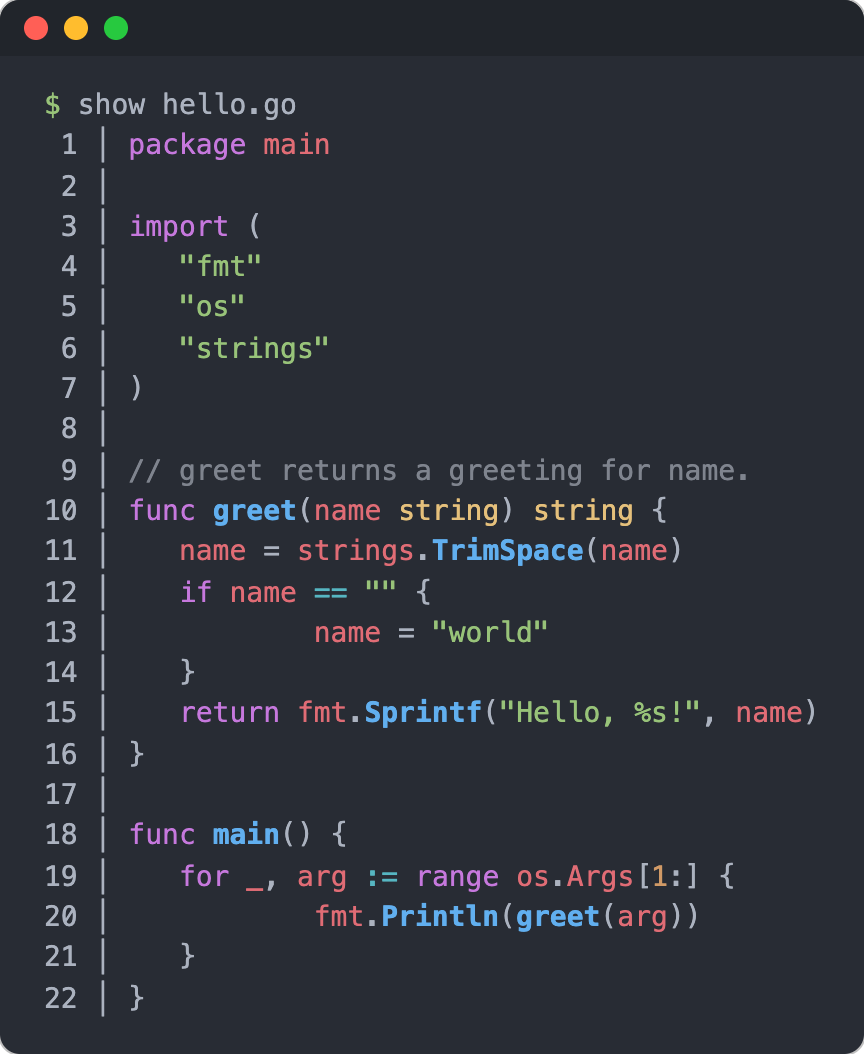
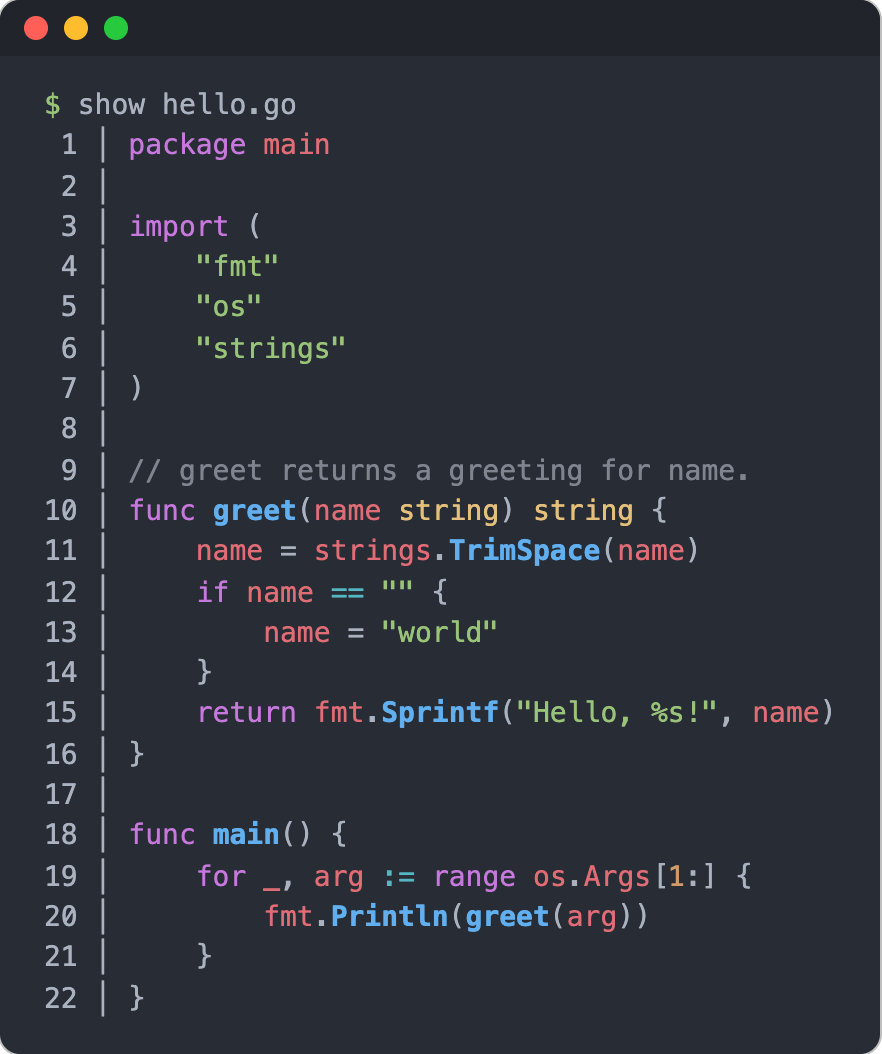
Document --color and --tab-width and refresh the screenshot
The screenshot is regenerated from real output, now with expanded tabs.

diff --git a/README.md b/README.md
@@ -48,22 +48,25 @@ make build        # writes bin/show
 ## Usage
 
 ```sh
-show main.go                      # highlight by file name
-show -t yaml config.example       # force a file type when the name does not tell
-show --theme github-dark main.go  # pick another theme
-show main.go | less -R            # page through a long file
-show --list-themes                # see the available themes
+show main.go                           # highlight by file name
+show -t yaml config.example            # force a file type when the name does not tell
+show --theme github-dark main.go       # pick another theme
+show --color always main.go | less -R  # keep color when paging
+show --list-themes                     # see the available themes
 ```
 
-The file type is detected from the file name, then from the contents. Output
-always contains ANSI color codes, also when piped, so use `less -R` to page.
+The file type is detected from the file name, then from the contents. Color
+is on when the output is a terminal. When you pipe or redirect the output, it
+is plain text with line numbers, unless you pass `--color always`.
 
 ## Options
 
 | Flag | Description |
 | --- | --- |
 | `-t`, `--filetype <type>` | Force the file type, for example `go`, `python`, `yaml`. See `--list-file-types`. |
+| `--color <when>` | `auto` (default), `always` or `never`. `auto` colors only when the output is a terminal and `NO_COLOR` is not set. `never` prints plain text. |
 | `--theme <name>` | Set the color theme. Default: `onedark`. See `--list-themes`. |
+| `--tab-width <n>` | Expand tabs to `n` columns, counted from the start of each line. Default: `4`. `0` keeps tabs as they are. |
 | `-d`, `--debug` | Print the detected file type above and below the output. |
 | `--list-file-types` | Print every value `--filetype` accepts, one per line. |
 | `--list-themes` | Print every theme name, one per line. |
@@ -92,7 +95,7 @@ show --install-completion fish > ~/.config/fish/completions/show.fish
 
 | Variable | Effect |
 | --- | --- |
-| `NO_COLOR` | When set to a non-empty value, line numbers are printed without color. The code itself is still highlighted. |
+| `NO_COLOR` | When set to a non-empty value, `--color auto` prints plain text. `--color always` still colors. See [no-color.org](https://no-color.org). |
 | `LC_ALL`, `LC_CTYPE`, `LANG` | If any of them mentions UTF-8, the line number separator is `│`. Otherwise it is `\|`. |
 
 ## Roadmap

diff --git a/CHANGELOG.md b/CHANGELOG.md
@@ -16,10 +16,13 @@ First public release, planned as 0.1.0.
 - `-t`, `--filetype` to force a file type, and `--list-file-types` to list
   every accepted value.
 - `--theme` to pick a color theme (default `onedark`), and `--list-themes`.
+- `--color auto|always|never`. The default, `auto`, colors only when stdout
+  is a terminal and `NO_COLOR` is unset or empty. Piped output is plain text.
+- `--tab-width` (default 4) expands tabs from the start of each line, so
+  indentation lines up after the line numbers. `0` keeps raw tabs.
 - `-d`, `--debug` to print the detected file type.
 - `--install-completion` for bash, zsh and fish.
-- `NO_COLOR` turns off line number color. The separator is `│` in UTF-8
-  locales and `|` otherwise.
+- The line number separator is `│` in UTF-8 locales and `|` otherwise.
 - `show --version` reports the version, commit and build date. Builds from
   `go install ...@vX.Y.Z` report the module version.
 - Prebuilt binaries for Linux, macOS and Windows on amd64 and arm64.
